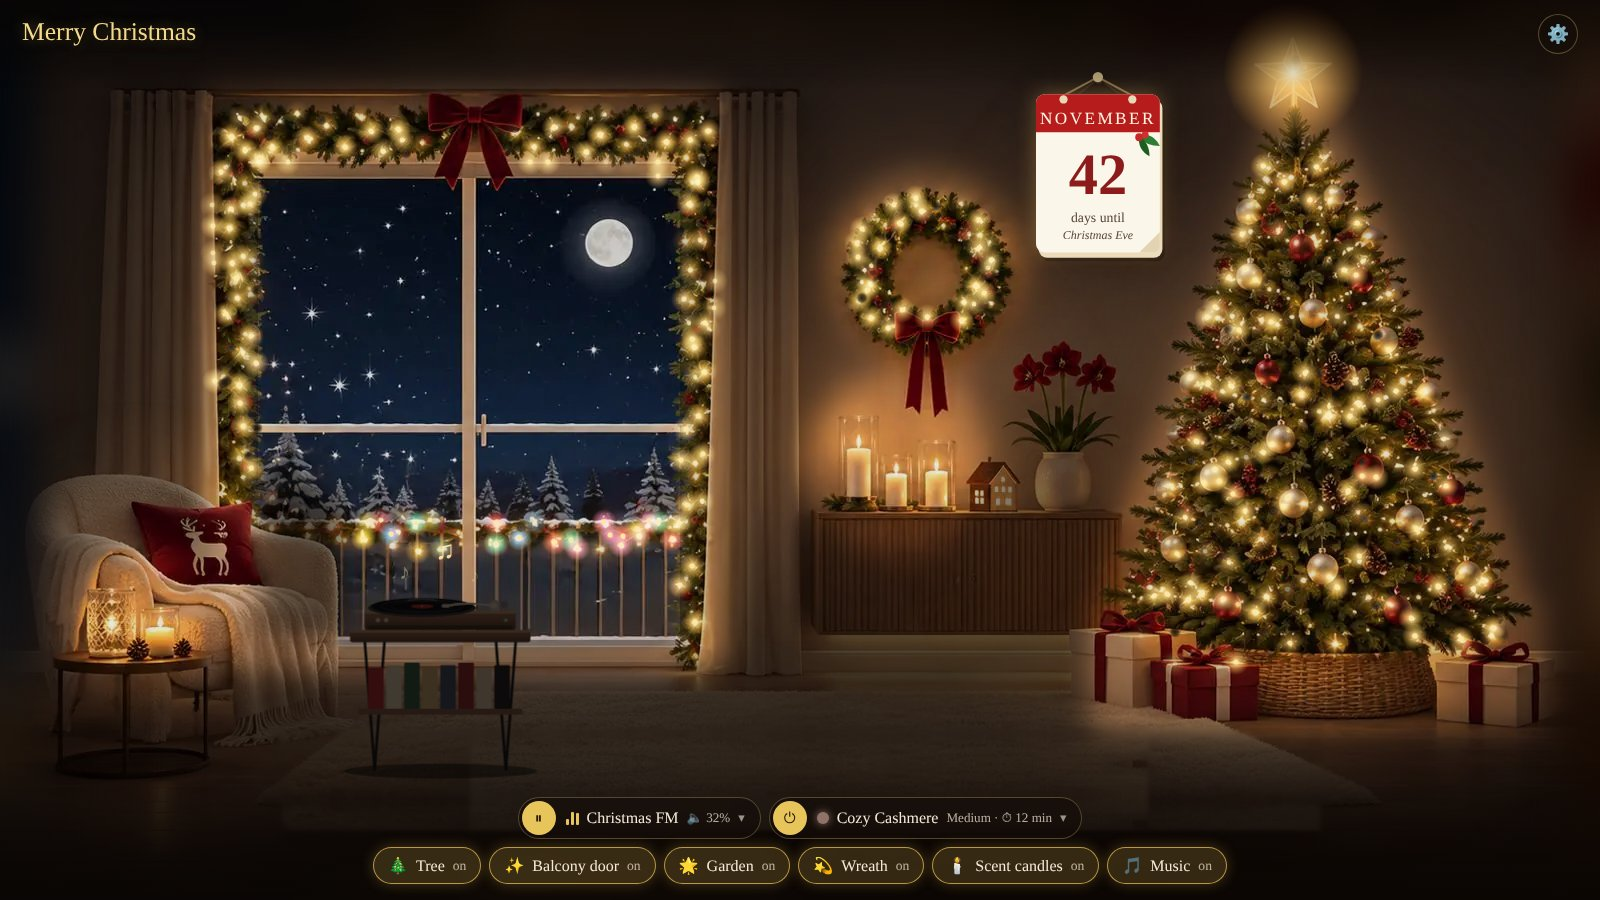
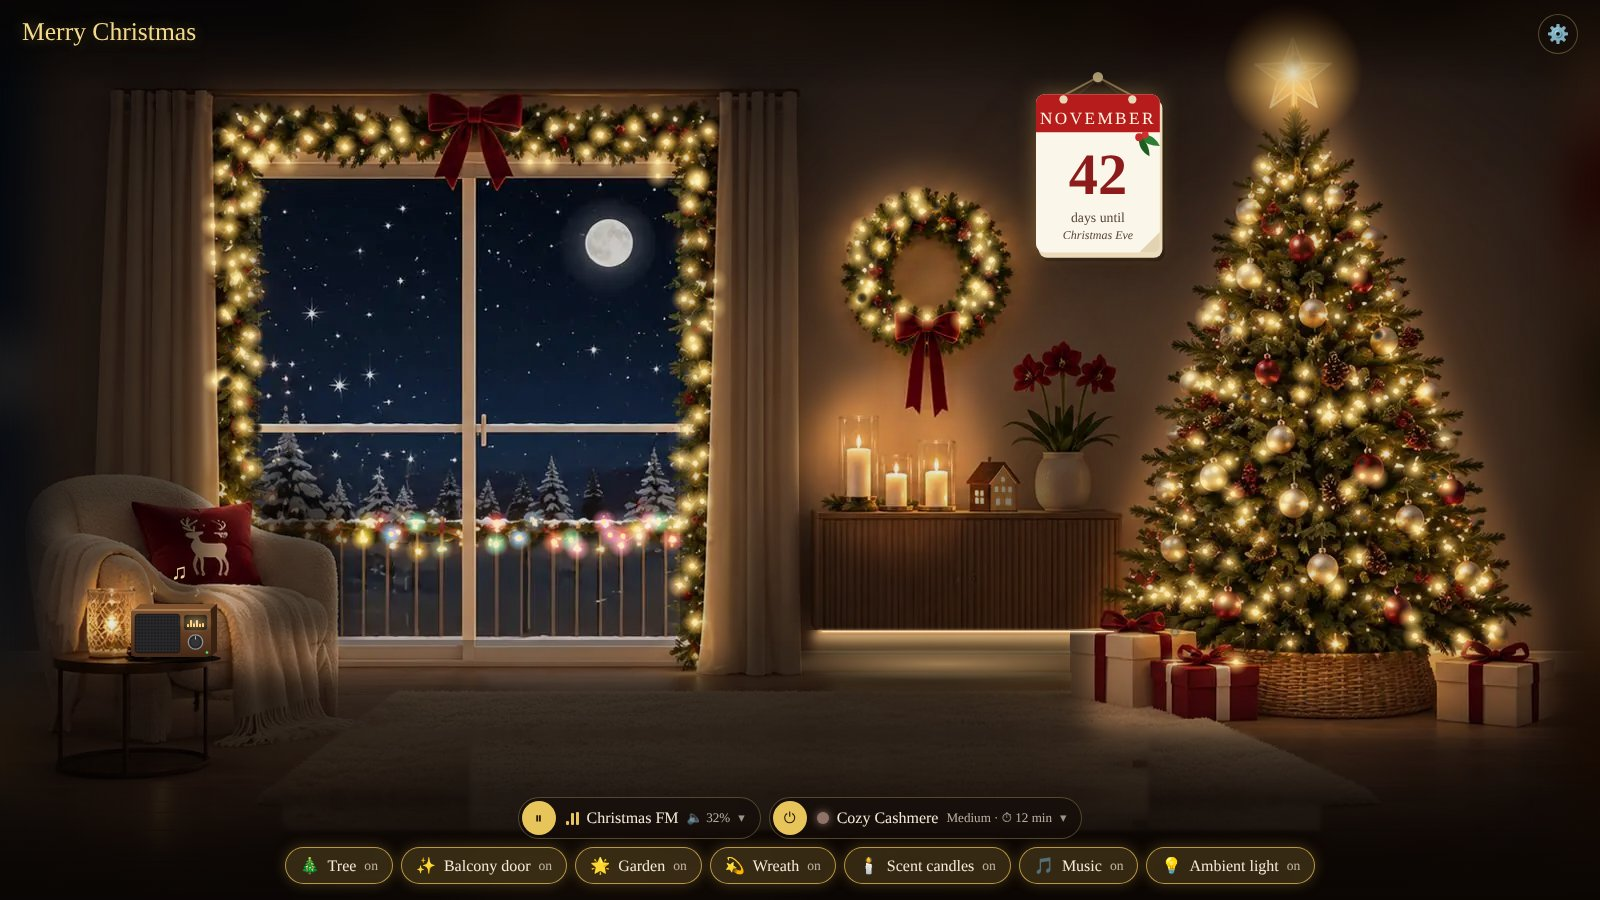
Modern style: smart radio on the side table, indirect sideboard light (optional entity, follows light colour)
Claude-Session: https://claude.ai/code/session_01SdUQZpCtnnLuUWa4TiFC63

diff --git a/christmas-room-card.js b/christmas-room-card.js
@@ -8,7 +8,7 @@ const WZ_VERSION = '1.2.0';
 const WZ_I18N = {
   de: {
     title: 'Frohe Weihnachten', on: 'an', off: 'aus',
-    items: { tree: 'Baum', door: 'Balkontür', garden: 'Garten', wreath: 'Kranz', candles: 'Duftkerzen', music: 'Musik' },
+    items: { tree: 'Baum', door: 'Balkontür', garden: 'Garten', wreath: 'Kranz', candles: 'Duftkerzen', music: 'Musik', sideboard: 'Indirektes Licht' },
     music: 'Musik', musicTitle: 'Weihnachtsmusik', playPause: 'Abspielen / Pause', pause: '⏸ Pause', play: '▶ Abspielen',
     random: 'Zufall', randomSub: 'jedes Mal eine andere Playlist',
     scent: 'Duft', scentToggle: 'Duft an/aus', scentTitle: 'Weihnachtsduft', intensity: 'Intensität', timer: 'Timer',
@@ -23,7 +23,7 @@ const WZ_I18N = {
     months: ['JANUAR', 'FEBRUAR', 'MÄRZ', 'APRIL', 'MAI', 'JUNI', 'JULI', 'AUGUST', 'SEPTEMBER', 'OKTOBER', 'NOVEMBER', 'DEZEMBER'],
     calDays: 'Tage bis', calDay: 'Tag bis', calToday: 'Heute ist', calMerry: 'Frohe', calEve: 'Heiligabend', calXmas: 'Weihnachten',
     ed: {
-      titles: { tree: 'Weihnachtsbaum', door: 'Balkontür-Girlande', garden: 'Garten (Lichter im Fenster)', wreath: 'Kranz an der Wand', candles: 'Duftkerzen', music: 'Musik', schedule: 'Zeitplan (Start / Alles aus)' },
+      titles: { tree: 'Weihnachtsbaum', door: 'Balkontür-Girlande', garden: 'Garten (Lichter im Fenster)', wreath: 'Kranz an der Wand', candles: 'Duftkerzen', music: 'Musik', sideboard: 'Indirektes Licht (unter dem Sideboard, Stil modern)', schedule: 'Zeitplan (Start / Alles aus)' },
       fit: [['auto', 'Automatisch'], ['cover', 'Füllend (Ränder beschneiden)'], ['contain', 'Ganz anzeigen']],
       styles: [['classic', 'Klassisch (gezeichnet)'], ['modern', 'Modern (Foto)']],
       labels: {
@@ -41,7 +41,7 @@ const WZ_I18N = {
   },
   en: {
     title: 'Merry Christmas', on: 'on', off: 'off',
-    items: { tree: 'Tree', door: 'Balcony door', garden: 'Garden', wreath: 'Wreath', candles: 'Scent candles', music: 'Music' },
+    items: { tree: 'Tree', door: 'Balcony door', garden: 'Garden', wreath: 'Wreath', candles: 'Scent candles', music: 'Music', sideboard: 'Ambient light' },
     music: 'Music', musicTitle: 'Christmas music', playPause: 'Play / Pause', pause: '⏸ Pause', play: '▶ Play',
     random: 'Shuffle', randomSub: 'a different playlist every time',
     scent: 'Scent', scentToggle: 'Scent on/off', scentTitle: 'Christmas scent', intensity: 'Intensity', timer: 'Timer',
@@ -56,7 +56,7 @@ const WZ_I18N = {
     months: ['JANUARY', 'FEBRUARY', 'MARCH', 'APRIL', 'MAY', 'JUNE', 'JULY', 'AUGUST', 'SEPTEMBER', 'OCTOBER', 'NOVEMBER', 'DECEMBER'],
     calDays: 'days until', calDay: 'day until', calToday: 'Today is', calMerry: 'Merry', calEve: 'Christmas Eve', calXmas: 'Christmas',
     ed: {
-      titles: { tree: 'Christmas tree', door: 'Balcony door garland', garden: 'Garden (lights in the window)', wreath: 'Wreath on the wall', candles: 'Scent candles', music: 'Music', schedule: 'Schedule (start / all off)' },
+      titles: { tree: 'Christmas tree', door: 'Balcony door garland', garden: 'Garden (lights in the window)', wreath: 'Wreath on the wall', candles: 'Scent candles', music: 'Music', sideboard: 'Ambient light (under the sideboard, modern style)', schedule: 'Schedule (start / all off)' },
       fit: [['auto', 'Automatic'], ['cover', 'Fill (crop edges)'], ['contain', 'Show everything']],
       styles: [['classic', 'Classic (illustrated)'], ['modern', 'Modern (photo)']],
       labels: {
@@ -80,7 +80,7 @@ const wzLang = (cfg, hass) => {
 let WZ_T = WZ_I18N[wzLang(null, null)];
 const WZ_OFF = ['off', 'unavailable', 'unknown', 'idle', 'paused', 'standby', 'none', '', 'closed'];
 const WZ_ITEMS = [
-  ['tree', '🎄'], ['door', '✨'], ['garden', '🌟'], ['wreath', '💫'], ['candles', '🕯'], ['music', '🎵']
+  ['tree', '🎄'], ['door', '✨'], ['garden', '🌟'], ['wreath', '💫'], ['candles', '🕯'], ['music', '🎵'], ['sideboard', '💡']
 ];
 
 const WZ_RND = '__random__';
@@ -222,7 +222,7 @@ function wzBow(x, y, s) {
 const WZM = {
   tree: [[1293, 28], [1332, 100], [1365, 185], [1412, 300], [1470, 430], [1520, 560], [1538, 625], [1440, 692], [1160, 692], [1092, 625], [1118, 520], [1170, 400], [1222, 262], [1258, 140]],
   doorOuter: [205, 86, 722, 670], doorInner: [258, 178, 680, 640],
-  wreath: [927, 268, 92], candles: [[896, 462, 92], [138, 622, 78]], calendar: [1036, 84],
+  wreath: [927, 268, 92], candles: [[896, 462, 92], [110, 618, 40]], calendar: [1036, 84],
   // light bulbs detected in the bundled photo (x,y;x,y…) – they blink individually
   b_tree: '1423,392;1402,518;1366,239;1378,335;1461,572;1321,316;1175,632;1252,204;1313,573;1328,416;1172,486;1141,636;1228,329;1315,240;1242,521;1247,397;1248,217;1303,503;1389,350;1404,381;1283,506;1483,581;1201,594;1389,604;1417,529;1336,644;1385,454;1433,476;1330,200;1199,384;1461,639;1317,561;1329,577;1359,404;1218,318;1492,636;1204,483;1389,294;1220,666;1255,280;1332,191;1360,327;1272,444;1266,179;1177,554;1376,606;1324,157;1296,242;1188,600;1229,278;1190,377;1288,497;1266,597;1238,604;1255,612;1261,320;1261,380;1301,394;1215,469;1355,380;1364,518;1448,547;1261,190;1245,269;1276,432;1458,653;1362,462;1471,652;1291,177;1219,481;1317,167;1208,383;1493,628;1303,580;1473,589;1191,461;1260,539;1368,597;1223,599;1251,196;1278,230;1319,373;1398,465;1191,583;1296,60;1363,261;1392,521;1450,579;1438,586;1162,589;1287,589;1154,596;1207,317;1348,491;1149,587;1175,664;1236,662;1284,182;1196,441;1480,549;1290,643;1305,67;1285,250;1305,373;1207,472;1446,486;1344,270;1239,281;1215,307;1277,324;1444,439;1246,457;1362,476;1185,517;1200,523;1337,587;1263,166;1242,234;1329,406;1263,452;1397,541;1415,636;1268,168;1310,200;1385,397;1378,400;1376,477;1425,494;1320,508;1273,511;1359,561;1212,600;1264,632;1250,231;1349,249;1232,316;1292,317;1241,323;1231,386;1396,391;1433,410;1350,416;1288,430;1164,494;1233,494;1227,525;1229,562;1411,618;1174,660;1357,223;1356,275;1269,289;1380,297;1239,330;1222,391;1264,400;1415,469;1168,474;1168,542;1167,594;1320,207;1337,316;1271,322;1235,395;1319,411;1228,462;1245,511;1358,512;1205,551;1359,556',
   b_door: '215,381;658,162;288,162;686,429;714,308;360,116;257,428;243,353;272,148;687,505;685,241;263,117;308,138;259,162;701,284;231,137;686,157;658,176;239,385;229,228;530,162;689,204;696,476;571,126;231,347;534,147;515,133;703,160;715,281;250,294;226,314;239,458;680,585;695,622;243,426;655,115;600,135;666,142;252,260;704,372;695,463;243,205;694,347;698,416;326,125;634,127;691,302;297,113;554,127;245,150;234,180;237,278;237,298;245,451;679,523;422,142;626,144;406,153;586,152;244,183;213,226;214,263;690,270;321,120;251,336;256,128;398,129;698,182;240,403;345,147;383,151;243,256;232,263;684,299;245,334;223,377;627,162;692,182;371,131;708,131;225,167;705,323;240,118;402,140;690,140;212,205;234,278;249,456;686,578;249,288;692,566;604,114;606,162;692,339;251,468;675,119;269,136;643,139;255,194;250,204;709,329;695,377;223,384;702,501;298,150;637,152;260,158;284,158;628,159;221,172;697,177;231,209;700,240;229,248;257,290;256,363;703,454;681,460;577,117;280,121;548,162;213,253;689,323;227,381;686,521',
@@ -237,27 +237,19 @@ function wzInPoly(x, y, poly) {
   }
   return inside;
 }
-const WZ_TURNTABLE = `
-      <ellipse cx="110" cy="172" rx="118" ry="9" fill="#000" opacity=".45"/>
-      <path d="M18 14 L30 170 M30 170 L42 14 M178 14 L190 170 M190 170 L202 14" stroke="#141414" stroke-width="3.2" fill="none" stroke-linecap="round"/>
-      <rect x="10" y="96" width="200" height="7" rx="2" fill="#6b4529"/>
-      <g>${['#b71c1c', '#e8e1d4', '#1d4d2f', '#c9a24a', '#2b3b5c', '#8e1b1b', '#d9c9a8', '#1b1b1b'].map((c, i) => `<rect x="${22 + i * 22}" y="${46 - (i % 3) * 3}" width="19" height="${50 + (i % 3) * 3}" rx="1.5" fill="${c}"/>`).join('')}</g>
-      <rect x="0" y="0" width="220" height="15" rx="3" fill="url(#gWalnut)"/>
-      <rect x="0" y="0" width="220" height="3" rx="1.5" fill="#d8a46a" opacity=".55"/>
-      <rect x="18" y="-24" width="184" height="24" rx="4" fill="url(#gWalnut)"/>
-      <rect x="18" y="-24" width="184" height="4" rx="2" fill="#e2b27a" opacity=".5"/>
-      <rect x="22" y="-6" width="176" height="5" rx="2" fill="#1a1a1a" opacity=".55"/>
-      <ellipse cx="88" cy="-27" rx="66" ry="11" fill="#2a2a2a"/>
-      <ellipse cx="88" cy="-29" rx="62" ry="10" fill="#0e0e0e"/>
-      <ellipse cx="88" cy="-29" rx="50" ry="8" fill="none" stroke="#2c2c2c"/><ellipse cx="88" cy="-29" rx="38" ry="6.2" fill="none" stroke="#262626"/>
-      <ellipse cx="88" cy="-29" rx="14" ry="2.6" fill="#b71c1c"/><ellipse cx="88" cy="-29" rx="1.6" ry=".6" fill="#ddd"/>
-      <path d="M70 -36 Q88 -40 106 -36" stroke="#fff" stroke-opacity=".18" stroke-width="2" fill="none"/>
-      <circle cx="176" cy="-30" r="7" fill="#9aa3ad"/><circle cx="176" cy="-30" r="3.5" fill="#d7dde3"/>
-      <path d="M176 -30 L150 -32 Q130 -33 118 -29" stroke="#d7dde3" stroke-width="2.6" fill="none" stroke-linecap="round"/>
-      <rect x="112" y="-31.5" width="9" height="4" rx="1" fill="#c9cfd6"/>
-      <circle cx="188" cy="-31" r="4" fill="#5e666f"/>
-      <circle cx="34" cy="-12" r="2.6" fill="#c9cfd6"/><circle cx="44" cy="-12" r="2.6" fill="#c9cfd6"/>
-      <circle class="led" cx="190" cy="-12" r="2.2"/>`;
+const WZ_RADIO = `
+      <ellipse cx="42" cy="1.5" rx="48" ry="4.5" fill="#000" opacity=".55"/>
+      <path d="M3 -47 L10 -53 H86 L79 -47 Z" fill="#8a5a34"/>
+      <path d="M79 -47 L86 -53 V-6 L79 0 Z" fill="#3e2414"/>
+      <rect x="0" y="-48" width="80" height="48" rx="5" fill="url(#gWalnut)"/>
+      <rect x="0" y="-48" width="80" height="2" rx="1" fill="#e2b27a" opacity=".5"/>
+      <rect x="4" y="-43" width="45" height="39" rx="3.5" fill="url(#pGrille)"/>
+      <rect x="4" y="-43" width="45" height="39" rx="3.5" fill="none" stroke="#000" stroke-opacity=".35"/>
+      <rect x="53" y="-42" width="23" height="15" rx="2.5" fill="#0c0c0d" stroke="#3a3a3c" stroke-width=".8"/>
+      <circle cx="64.5" cy="-15" r="7.2" fill="#2a2a2c" stroke="#9aa0a6" stroke-width="1.3"/>
+      <circle cx="64.5" cy="-15" r="4.6" fill="#38383b"/>
+      <rect x="64" y="-21" width="1" height="3.4" rx=".5" fill="#c9cfd6"/>
+      <circle class="led" cx="76" cy="-4.5" r="1.3"/>`;
 const WZ_GRAM = `
       <ellipse cx="120" cy="584" rx="78" ry="9" fill="#000" opacity=".45"/>
       <rect x="62" y="534" width="116" height="46" rx="4" fill="url(#gWood)"/>
@@ -272,7 +264,7 @@ const WZ_GRAM = `
       <path d="M78 532 C76 482 40 456 15 430 L105 411 C80 452 90 492 90 532 Z" fill="url(#gBrass)"/>
       <ellipse cx="60" cy="420" rx="46" ry="21" transform="rotate(-12 60 420)" fill="url(#gBrass)"/>
       <ellipse cx="60" cy="421" rx="41" ry="17" transform="rotate(-12 60 421)" fill="url(#gHornIn)"/>`;
-function wzModernScene(img, calendarSvg) {
+function wzModernScene(img, calendarSvg, sbHit) {
   const R = wzRng(1612);
   const [ox1, oy1, ox2, oy2] = WZM.doorOuter, [ix1, iy1, ix2, iy2] = WZM.doorInner;
   const [wx, wy, wr] = WZM.wreath;
@@ -297,12 +289,18 @@ function wzModernScene(img, calendarSvg) {
       <radialGradient id="gHornIn" cx=".5" cy=".6" r=".6"><stop offset="0" stop-color="#1c1006"/><stop offset=".7" stop-color="#5a3c12"/><stop offset="1" stop-color="#a87a2c"/></radialGradient>
       <linearGradient id="gWalnut" x1="0" y1="0" x2="0" y2="1"><stop offset="0" stop-color="#8a5a34"/><stop offset=".5" stop-color="#6b4226"/><stop offset="1" stop-color="#4a2c18"/></linearGradient>
       <radialGradient id="gOff"><stop offset="0" stop-color="#1c1208" stop-opacity=".95"/><stop offset=".55" stop-color="#1c1208" stop-opacity=".7"/><stop offset="1" stop-color="#1c1208" stop-opacity="0"/></radialGradient>
+      <clipPath id="cSb"><path d="M800 630 H1070 V700 H800 Z"/></clipPath>
+      <pattern id="pGrille" width="3.2" height="3.2" patternUnits="userSpaceOnUse"><rect width="3.2" height="3.2" fill="#2b2b2e"/><circle cx="1.6" cy="1.6" r=".75" fill="#151517"/></pattern>
+      <linearGradient id="gSbWash" x1="0" y1="0" x2="0" y2="1"><stop offset="0" style="stop-color:var(--sb,#ffb04a)" stop-opacity=".95"/><stop offset=".3" style="stop-color:var(--sb,#ffb04a)" stop-opacity=".3"/><stop offset="1" style="stop-color:var(--sb,#ffb04a)" stop-opacity="0"/></linearGradient>
+      <radialGradient id="gSbFloor"><stop offset="0" style="stop-color:var(--sb,#ffb04a)" stop-opacity=".55"/><stop offset="1" style="stop-color:var(--sb,#ffb04a)" stop-opacity="0"/></radialGradient>
       <radialGradient id="gSpill"><stop offset="0" stop-color="#fff" stop-opacity=".55"/><stop offset="1" stop-color="#fff" stop-opacity="0"/></radialGradient>
       <filter id="fDim" color-interpolation-filters="sRGB">
         <feColorMatrix type="saturate" values="0.72"/>
         <feComponentTransfer><feFuncR type="table" tableValues="0 0.09 0.16 0.21 0.245 0.27"/><feFuncG type="table" tableValues="0 0.08 0.145 0.19 0.22 0.24"/><feFuncB type="table" tableValues="0 0.08 0.13 0.165 0.19 0.205"/></feComponentTransfer>
       </filter>
       <filter id="fSoft" x="-20%" y="-20%" width="140%" height="140%"><feGaussianBlur stdDeviation="14"/></filter>
+      <filter id="fGlow4" x="-10%" y="-60%" width="120%" height="220%"><feGaussianBlur stdDeviation="5"/></filter>
+      <filter id="fGlow1" x="-5%" y="-300%" width="110%" height="700%"><feGaussianBlur stdDeviation="1.4"/></filter>
       <filter id="fBg" x="-10%" y="-10%" width="120%" height="120%" color-interpolation-filters="sRGB"><feGaussianBlur stdDeviation="9"/><feComponentTransfer><feFuncR type="linear" slope=".3"/><feFuncG type="linear" slope=".28"/><feFuncB type="linear" slope=".26"/></feComponentTransfer></filter>
       <filter id="fEdge" x="-10%" y="-10%" width="120%" height="120%"><feGaussianBlur stdDeviation="22"/></filter>
       <mask id="mEdge" maskUnits="userSpaceOnUse" x="-100" y="-100" width="1800" height="1100"><rect x="36" y="36" width="1528" height="828" fill="#fff" filter="url(#fEdge)"/></mask>
@@ -323,12 +321,26 @@ function wzModernScene(img, calendarSvg) {
     <g class="lit lit-tree">${im('mask="url(#mTree)"')}</g>
     </g>
     <rect x="0" y="640" width="1600" height="262" fill="url(#gFloorShade)"/>
-    <g transform="translate(350,630) scale(.82)">
-      <g filter="url(#fDim)">${WZ_TURNTABLE}</g>
-      <g class="lit lit-music">${WZ_TURNTABLE}<ellipse cx="88" cy="-29" rx="80" ry="20" fill="url(#gWarm)" opacity=".35"/></g>
-      <text class="note" x="60" y="-62" font-size="26" style="animation-delay:0s">♪</text>
-      <text class="note" x="104" y="-86" font-size="32" style="animation-delay:.8s">♫</text>
-      <text class="note" x="146" y="-58" font-size="24" style="animation-delay:1.6s">♪</text>
+    <g class="sb-light">
+      <g clip-path="url(#cSb)">
+        <rect x="812" y="632" width="310" height="30" fill="url(#gSbWash)" filter="url(#fGlow4)" opacity=".85"/>
+        <rect x="816" y="626" width="304" height="12" rx="6" style="fill:var(--sb,#ffb04a)" opacity=".55" filter="url(#fGlow4)"/>
+        <ellipse cx="945" cy="664" rx="175" ry="16" fill="url(#gSbFloor)" opacity=".9"/>
+      </g>
+      <rect x="818" y="630.6" width="300" height="2.2" rx="1.1" style="fill:var(--sb,#ffb04a)" filter="url(#fGlow1)"/>
+      <rect x="822" y="631" width="292" height="1.2" rx=".6" fill="#fff4dc" opacity=".8"/>
+    </g>
+    <g transform="translate(131,657)">
+      <g filter="url(#fDim)">${WZ_RADIO}</g>
+      <g class="lit lit-candles">${WZ_RADIO}</g>
+      <g class="rdisp">
+        <rect x="54" y="-41" width="21" height="13" rx="2" fill="#ffb84d" opacity=".08"/>
+        ${[0, 1, 2, 3, 4, 5].map((i) => `<rect class="eqb" x="${56 + i * 3}" y="-38" width="2" height="8" rx=".5" fill="#ffc46b" style="animation-delay:-${(i * 0.37).toFixed(2)}s"/>`).join('')}
+        <ellipse class="dglow" cx="64.5" cy="-34.5" rx="18" ry="11" fill="url(#gWarm)"/>
+      </g>
+      <text class="note" x="18" y="-62" font-size="18" style="animation-delay:0s">♪</text>
+      <text class="note" x="40" y="-78" font-size="22" style="animation-delay:.8s">♫</text>
+      <text class="note" x="62" y="-60" font-size="16" style="animation-delay:1.6s">♪</text>
     </g>
     <g class="bulbs">${parse(WZM.b_tree).map((p, i) => bulb('t', p, i)).join('')}${parse(WZM.b_door).map((p, i) => bulb('d', p, i)).join('')}${parse(WZM.b_wreath).map((p, i) => bulb('k', p, i)).join('')}${parse(WZM.b_garden).map((p, i) => bulb('g', p, i, 'gL' + (i % GC.length))).join('')}</g>
     <circle class="starglow" cx="1293" cy="72" r="70" fill="url(#gWarm)"/>
@@ -336,9 +348,10 @@ function wzModernScene(img, calendarSvg) {
     <polygon class="hit" data-k="tree" points="${polyStr}"/>
     <path class="hit" data-k="door" d="M${ox1} ${oy1}H${ox2}V${oy2}H${ox1}Z M${ix1} ${iy1}V${iy2}H${ix2}V${iy1}Z" fill-rule="evenodd"/>
     <rect class="hit" data-k="garden" x="${ix1}" y="${iy1}" width="${ix2 - ix1}" height="${iy2 - iy1}"/>
+    ${sbHit ? '<rect class="hit" data-k="sideboard" x="806" y="556" width="322" height="120"/>' : ''}
     <circle class="hit" data-k="wreath" cx="${wx}" cy="${wy + 20}" r="${wr + 30}"/>
     ${WZM.candles.map(([x, y, rr]) => `<circle class="hit" data-k="candles" cx="${x}" cy="${y}" r="${rr}"/>`).join('')}
-    <rect class="hit" data-k="music" x="342" y="560" width="196" height="210"/>`;
+    <rect class="hit" data-k="music" x="126" y="596" width="96" height="70"/>`;
 }
 
 class ChristmasRoomCard extends HTMLElement {
@@ -404,6 +417,8 @@ class ChristmasRoomCard extends HTMLElement {
     return !WZ_OFF.includes(String(st.state).toLowerCase());
   }
   _isOn(k) {
+    const sb = this._config.sideboard || {};
+    if (k === 'sideboard' && !sb.entity && !sb.action) return this._isOn('tree'); // decoration follows the tree
     const o = this._opt[k];
     if (o && Date.now() < o.until) return o.val;
     const a = this._actual(k);
@@ -449,6 +464,10 @@ class ChristmasRoomCard extends HTMLElement {
       const chip = this.shadowRoot.getElementById('chip-' + k);
       if (chip) { chip.classList.toggle('on', on); chip.querySelector('.st').textContent = on ? WZ_T.on : WZ_T.off; }
     });
+    const sbe = (this._config.sideboard || {}).entity, sbs = sbe && this._hass && this._hass.states[sbe];
+    const rgb = sbs && sbs.attributes && sbs.attributes.rgb_color;
+    if (Array.isArray(rgb) && rgb.length === 3) root.style.setProperty('--sb', `rgb(${rgb.map((v) => Math.round(60 + v * 0.77)).join(',')})`);
+    else root.style.removeProperty('--sb');
     this._dock();
   }
   // ---------- Music ----------
@@ -700,7 +719,7 @@ class ChristmasRoomCard extends HTMLElement {
   _render() {
     if (!this.shadowRoot) this.attachShadow({ mode: 'open' });
     const cfg = this._config;
-    const key = JSON.stringify([cfg.title, cfg.show_chips, cfg.height, WZ_ITEMS.map(([k]) => (cfg[k] || {}).name), new Date().toDateString(), WZ_T.title, cfg.style, cfg.background_image]);
+    const key = JSON.stringify([cfg.title, cfg.show_chips, cfg.height, WZ_ITEMS.map(([k]) => (cfg[k] || {}).name), new Date().toDateString(), WZ_T.title, cfg.style, cfg.background_image, !!(cfg.sideboard && (cfg.sideboard.entity || cfg.sideboard.action))]);
     if (this._key === key && this.shadowRoot.getElementById('room')) { this._fit(); this._apply(); return; }
     this._key = key;
     const cfgH = cfg.height || 'calc(100vh - var(--header-height, 56px))';
@@ -848,6 +867,13 @@ class ChristmasRoomCard extends HTMLElement {
   @keyframes bgoff { 0%,64% { opacity:1; } 66%,86% { opacity:0; } 88%,100% { opacity:1; } }
   @keyframes boff { 0%,64% { opacity:0; } 66%,86% { opacity:1; } 88%,100% { opacity:0; } }
   .led { fill:#5a1010; } .music-on .led { fill:#4cff7a; }
+  .sb-light { opacity:0; transition:opacity 1.2s ease; mix-blend-mode:screen; pointer-events:none; }
+  .sideboard-on .sb-light { opacity:1; }
+  .rdisp .eqb { opacity:.18; transform-box:fill-box; transform-origin:50% 100%; transform:scaleY(.25); }
+  .rdisp .dglow { opacity:0; mix-blend-mode:screen; transition:opacity .8s; }
+  .music-on .rdisp .eqb { opacity:1; animation: eqb .9s ease-in-out infinite alternate; }
+  .music-on .rdisp .dglow { opacity:.45; }
+  @keyframes eqb { 0% { transform:scaleY(.2); } 50% { transform:scaleY(.9); } 100% { transform:scaleY(.45); } }
   .tthumb { width:30px; height:30px; border-radius:7px; object-fit:cover; display:block; }
   .cal { cursor:default; }
   .cal .pg { transition: filter .8s; }
@@ -917,7 +943,7 @@ class ChristmasRoomCard extends HTMLElement {
 </style>
 <ha-card>
   <div class="head"><h2>${wzEsc(this._config.title || WZ_T.title)}</h2><button class="gear" id="gear" data-pop="settings" title="${WZ_T.schedule}" style="display:none">⚙</button></div>
-  ${this._modern ? `<svg id="room" class="modern" viewBox="0 0 1600 900" preserveAspectRatio="xMidYMid slice" role="img" aria-label="Christmas living room">${wzModernScene(modernImg, calendarSvg)}</svg>` : `<svg id="room" viewBox="0 0 1000 600" preserveAspectRatio="xMidYMid meet" role="img" aria-label="Christmas living room">
+  ${this._modern ? `<svg id="room" class="modern" viewBox="0 0 1600 900" preserveAspectRatio="xMidYMid slice" role="img" aria-label="Christmas living room">${wzModernScene(modernImg, calendarSvg, !!(cfg.sideboard && (cfg.sideboard.entity || cfg.sideboard.action)))}</svg>` : `<svg id="room" viewBox="0 0 1000 600" preserveAspectRatio="xMidYMid meet" role="img" aria-label="Christmas living room">
     <defs>
       <radialGradient id="gWarm"><stop offset="0" stop-color="#fff6d6" stop-opacity="1"/><stop offset=".25" stop-color="#ffd27a" stop-opacity=".75"/><stop offset="1" stop-color="#ffb347" stop-opacity="0"/></radialGradient>
       ${GC.map((c, i) => `<radialGradient id="gL${i}"><stop offset="0" stop-color="#fff" stop-opacity=".95"/><stop offset=".3" stop-color="${c}" stop-opacity=".8"/><stop offset="1" stop-color="${c}" stop-opacity="0"/></radialGradient>`).join('')}
@@ -1083,7 +1109,7 @@ class ChristmasRoomCard extends HTMLElement {
   <div class="pop" id="pop"></div>
   <div class="chips" id="chipsbar">
     <div class="dock" id="dock"></div>
-    ${WZ_ITEMS.map(([k, icon]) => `<button class="chip" id="chip-${k}" data-k="${k}"><span>${icon}</span><span>${wzEsc((cfg[k] && cfg[k].name) || WZ_T.items[k])}</span><span class="st">${WZ_T.off}</span></button>`).join('')}
+    ${WZ_ITEMS.filter(([k]) => k !== 'sideboard' || (cfg.sideboard && (cfg.sideboard.entity || cfg.sideboard.action))).map(([k, icon]) => `<button class="chip" id="chip-${k}" data-k="${k}"><span>${icon}</span><span>${wzEsc((cfg[k] && cfg[k].name) || WZ_T.items[k])}</span><span class="st">${WZ_T.off}</span></button>`).join('')}
   </div>
 </ha-card>`;
     this.shadowRoot.querySelectorAll('[data-k]').forEach((el) => el.addEventListener('click', (e) => {
@@ -1150,6 +1176,7 @@ function wzEditorSchema(hass, cfg) {
     item('door', 'mdi:door-sliding'),
     item('garden', 'mdi:pine-tree-variant'),
     item('wreath', 'mdi:circle-double'),
+    item('sideboard', 'mdi:led-strip-variant'),
     item('candles', 'mdi:candle', [
       { name: 'pura_device', selector: { device: { filter: [{ integration: 'pura' }] } } },
       { name: 'controls', selector: { boolean: {} } },

diff --git a/README.md b/README.md
@@ -101,6 +101,7 @@ schedule:                           # optional, see below
 | `height` | Card height. Default: full screen below the header. `auto` = fixed 5:3 aspect ratio (for normal dashboards). |
 | `show_chips` | Show the buttons at the bottom (default `true`). |
 | `tree`, `door`, `garden`, `wreath`, `candles`, `music` | One object each, see below. |
+| `sideboard` | Modern style: indirect LED light under the sideboard. With an `entity` it gets its own button and takes the light's colour (`rgb_color`); without one it simply follows the tree. |
 | `schedule` | Helpers for the schedule panel, see below. |
 
 **Per object** (`tree`, `door`, `garden`, `wreath`, `candles`, `music`):
@@ -144,7 +145,7 @@ Ein gemütliches, animiertes Weihnachts-Wohnzimmer fürs Dashboard. Jedes Objekt
 
 ![Deutsch](images/room_de.jpg)
 
-**Stil:** `style: classic` (gezeichnet, Standard) oder `style: modern` (Foto – jedes eingeschaltete Objekt leuchtet in seinem Bereich auf, alles andere bleibt gedimmt).
+**Stil:** `style: classic` (gezeichnet, Standard) oder `style: modern` (Foto – jedes eingeschaltete Objekt leuchtet in seinem Bereich auf, die Lichterketten blinken, alles andere bleibt gedimmt; Musik kommt aus dem Smart-Radio neben dem Sessel). Optional `sideboard: { entity: light.… }` für die indirekte Beleuchtung unter dem Sideboard – übernimmt die Farbe des Lichts.
 
 **Installation:** *Einstellungen → Marketplace → Add from link* → `https://github.com/Severinius-MUC/christmas-room-card` (oder manuell wie oben beschrieben). Danach am besten eine Ansicht vom Typ **Panel** anlegen und die Karte „Christmas Room Card“ hinzufügen – alles Weitere im grafischen Editor.
 
